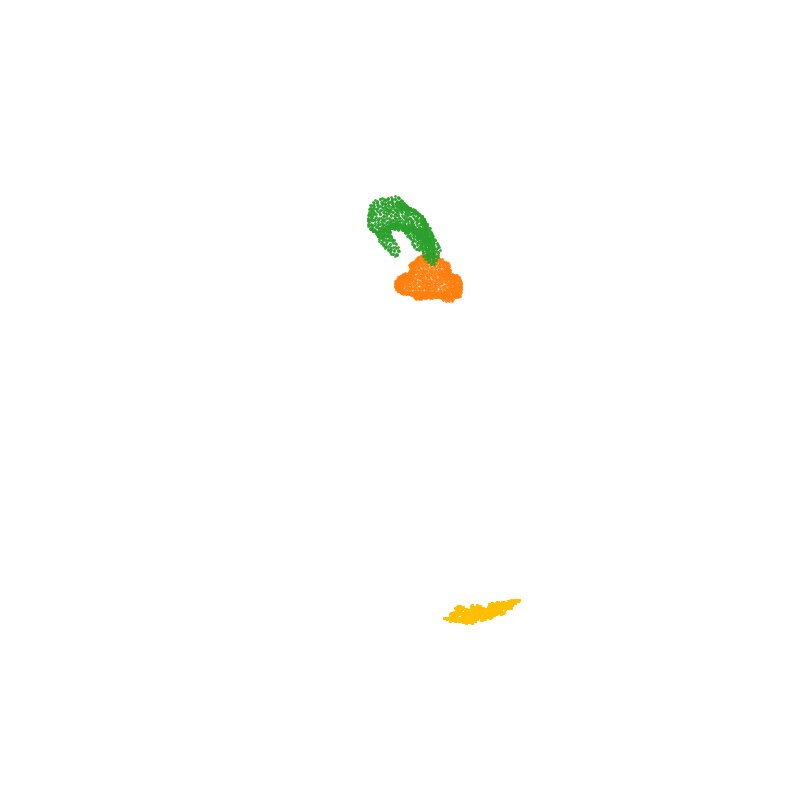
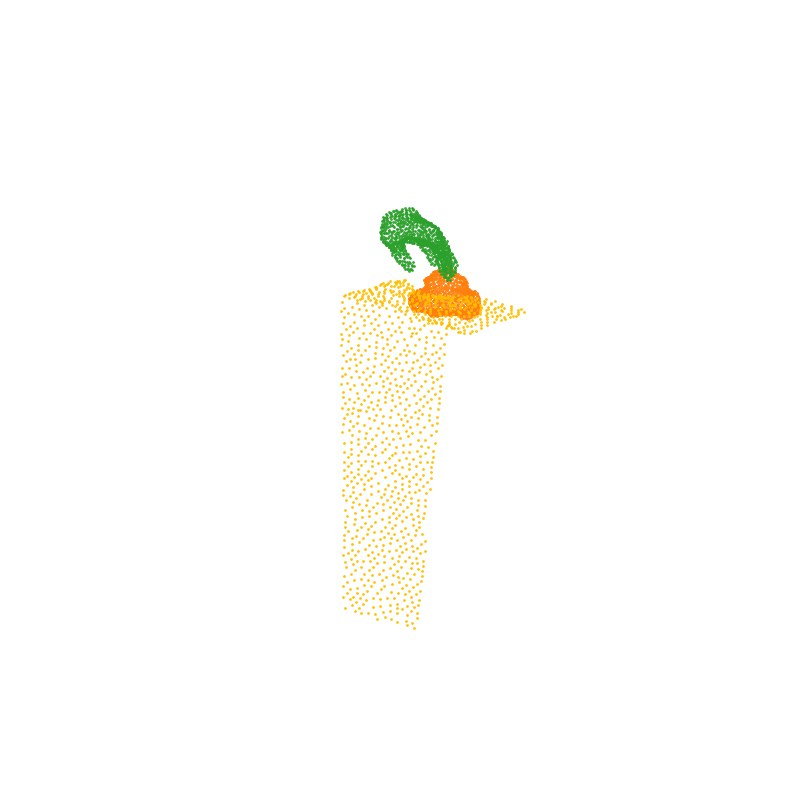
3d-wam deck #2-1: HOI4D destinations reach 88 percent on the real support
Adding 'locker' and 'cupboard' to the support-class list moved 92 destinations
onto the surface the object actually rests on: 76 -> 88 percent within 10 cm,
p90 51.2 -> 6.9 cm. The toy car's region moved from the floor to the locker
that is its table, 0.09 cm under the car instead of 49 cm below it.

Claude-Session: https://claude.ai/code/session_01SMPxcWL3pAAD5cKRpfQpSb

Changed region(s): [[0.4062, 0.2188, 0.6562, 0.7812], [0.5625, 0.75, 0.6562, 0.7812]]

diff --git a/experiments/3d-wam/decks/2026-09-08-s2-1-human-data/index.html b/experiments/3d-wam/decks/2026-09-08-s2-1-human-data/index.html
@@ -385,7 +385,7 @@
     <figure><img src="assets/hoi4d__pnp4.gif" alt="HOI4D · reposition the bottle" loading="lazy" style="background:url(assets/hoi4d__pnp4.jpg) center/contain no-repeat"><figcaption>reposition the bottle &middot; travels 29.8 cm</figcaption></figure>
     <figure><img src="assets/hoi4d__pnp5.gif" alt="HOI4D · chair to a new position" loading="lazy" style="background:url(assets/hoi4d__pnp5.jpg) center/contain no-repeat"><figcaption>chair to a new position &middot; travels 134 cm</figcaption></figure>
   </div>
-  <p class="footnote">Grey patch = the labelled surface beneath the object&rsquo;s resting pose, from HOI4D&rsquo;s own scene cloud; pick-and-place only, other families keep a single object. Measured as the vertical gap from the object&rsquo;s lowest point to the top of the region: <b>76 % sit within 10 cm of the real support</b> (median &minus;0.3 cm); 17 % land on the floor beneath a table HOI4D never labelled. 71 % of pick-and-place travels under 10 cm, so the object is often set down near where it started &mdash; the last two clips are the cases where the destination is visibly elsewhere.</p>
+  <p class="footnote">Grey patch = the labelled surface beneath the object&rsquo;s resting pose, from HOI4D&rsquo;s own scene cloud; pick-and-place only, other families keep a single object. Measured as the vertical gap from the object&rsquo;s lowest point to the top of the region: <b>88 % sit within 10 cm of the real support</b> (median &minus;0.3 cm, p90 6.9 cm). 71 % of pick-and-place travels under 10 cm, so the object is often set down near where it started &mdash; the last two clips are the cases where the destination is visibly elsewhere.</p>
 </section>
 
 <!-- SECTION: viz grid · raw vs smoothed, same window and camera -->
